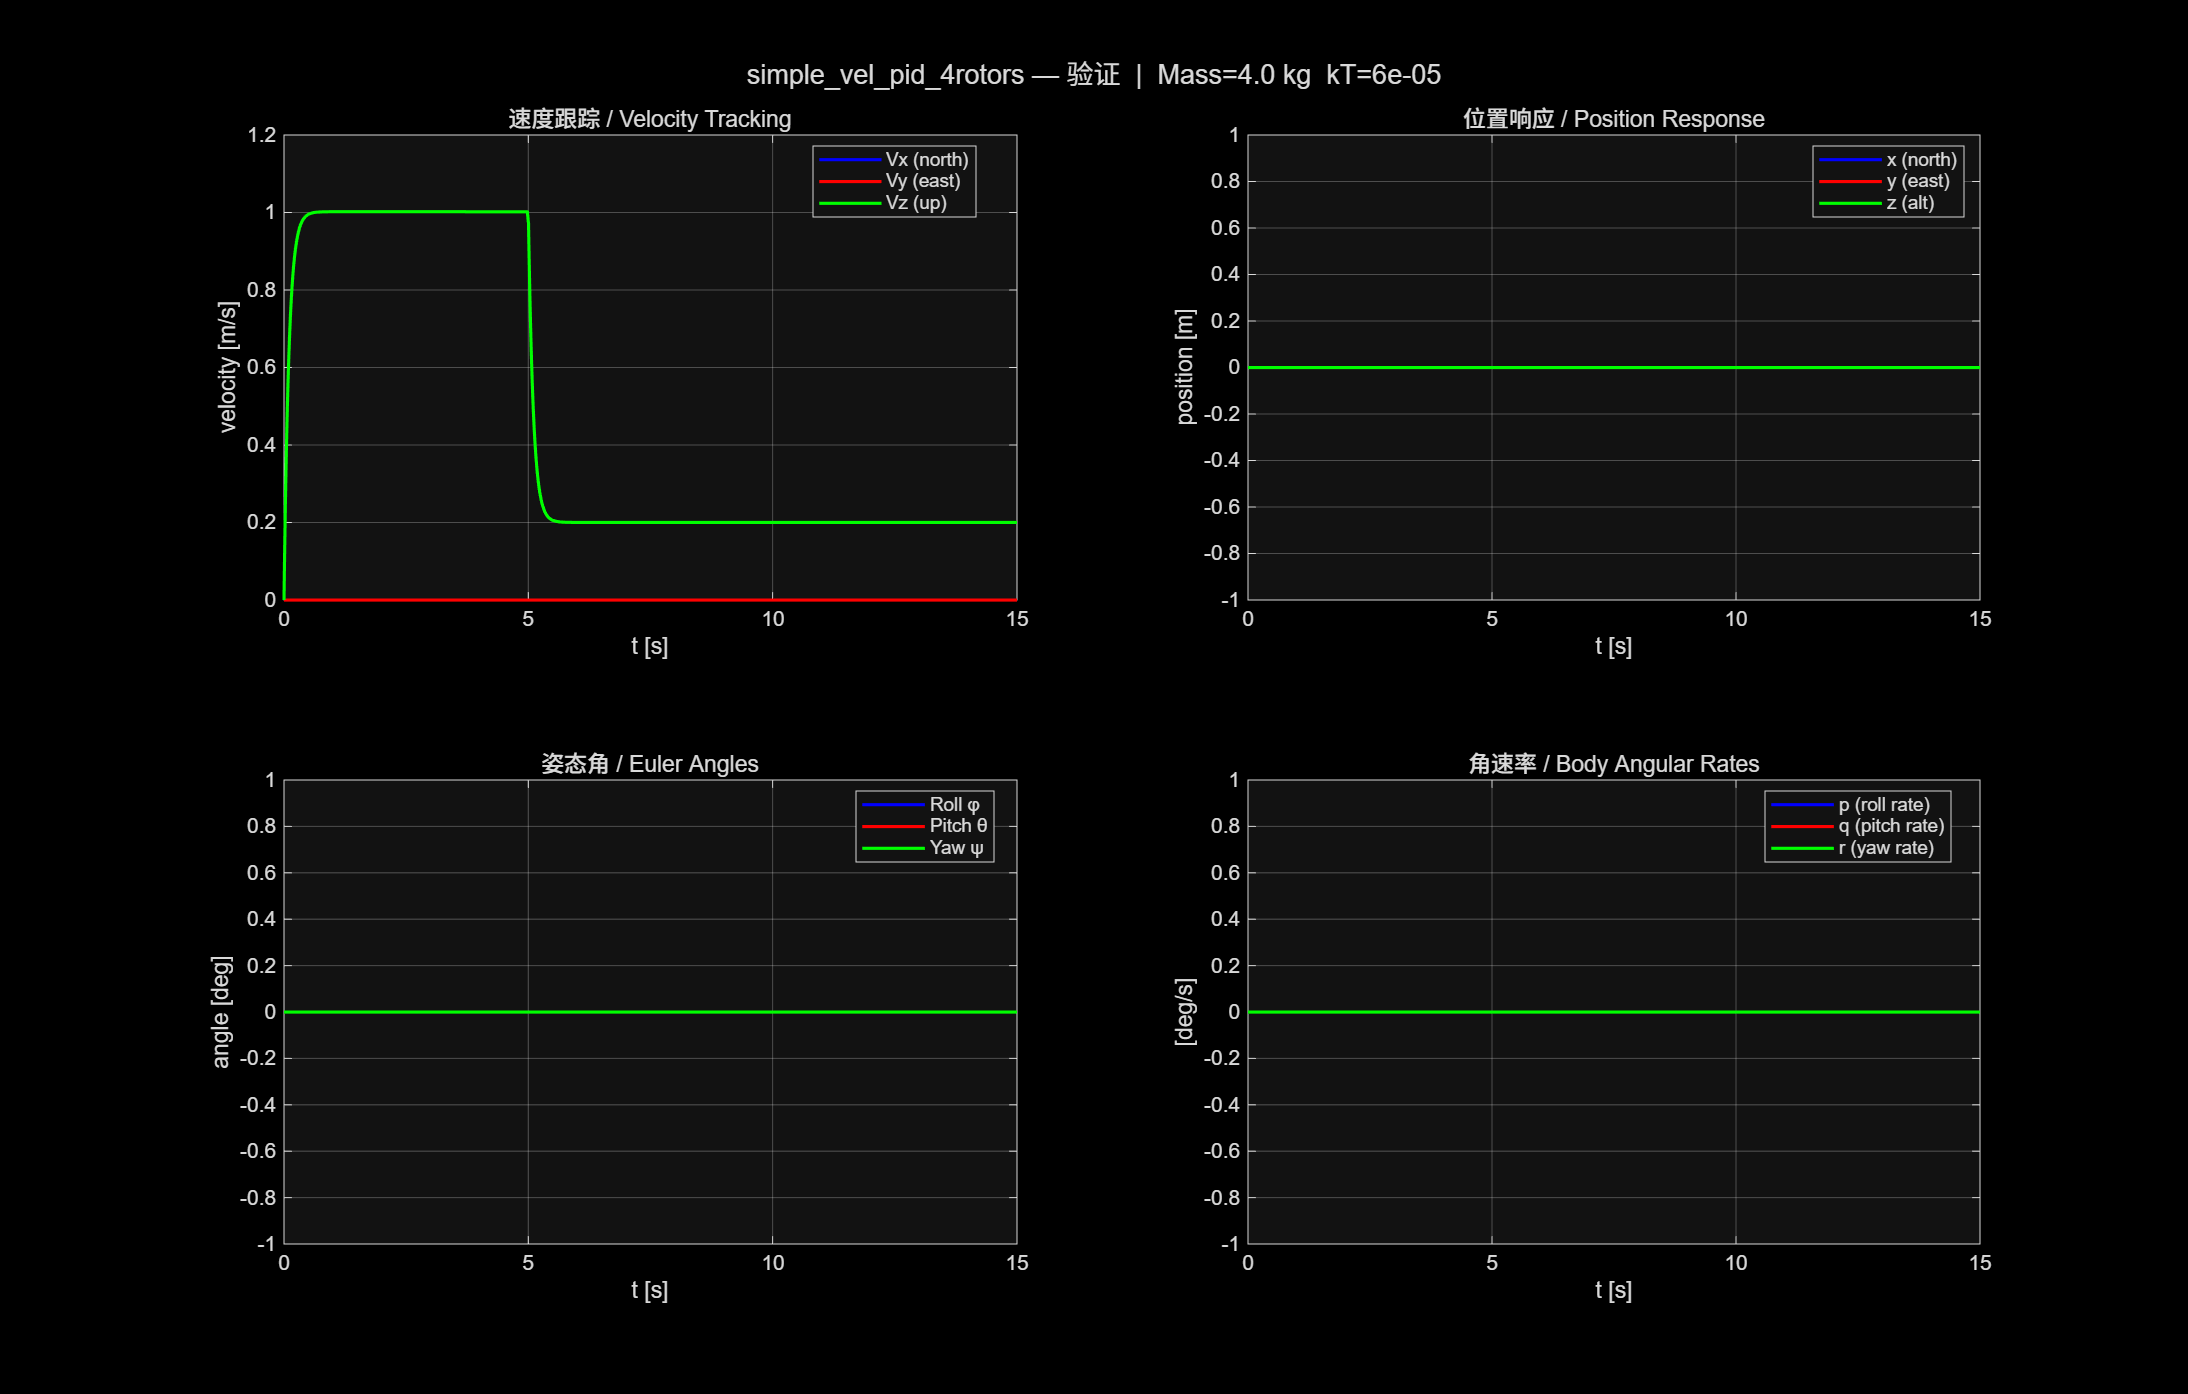
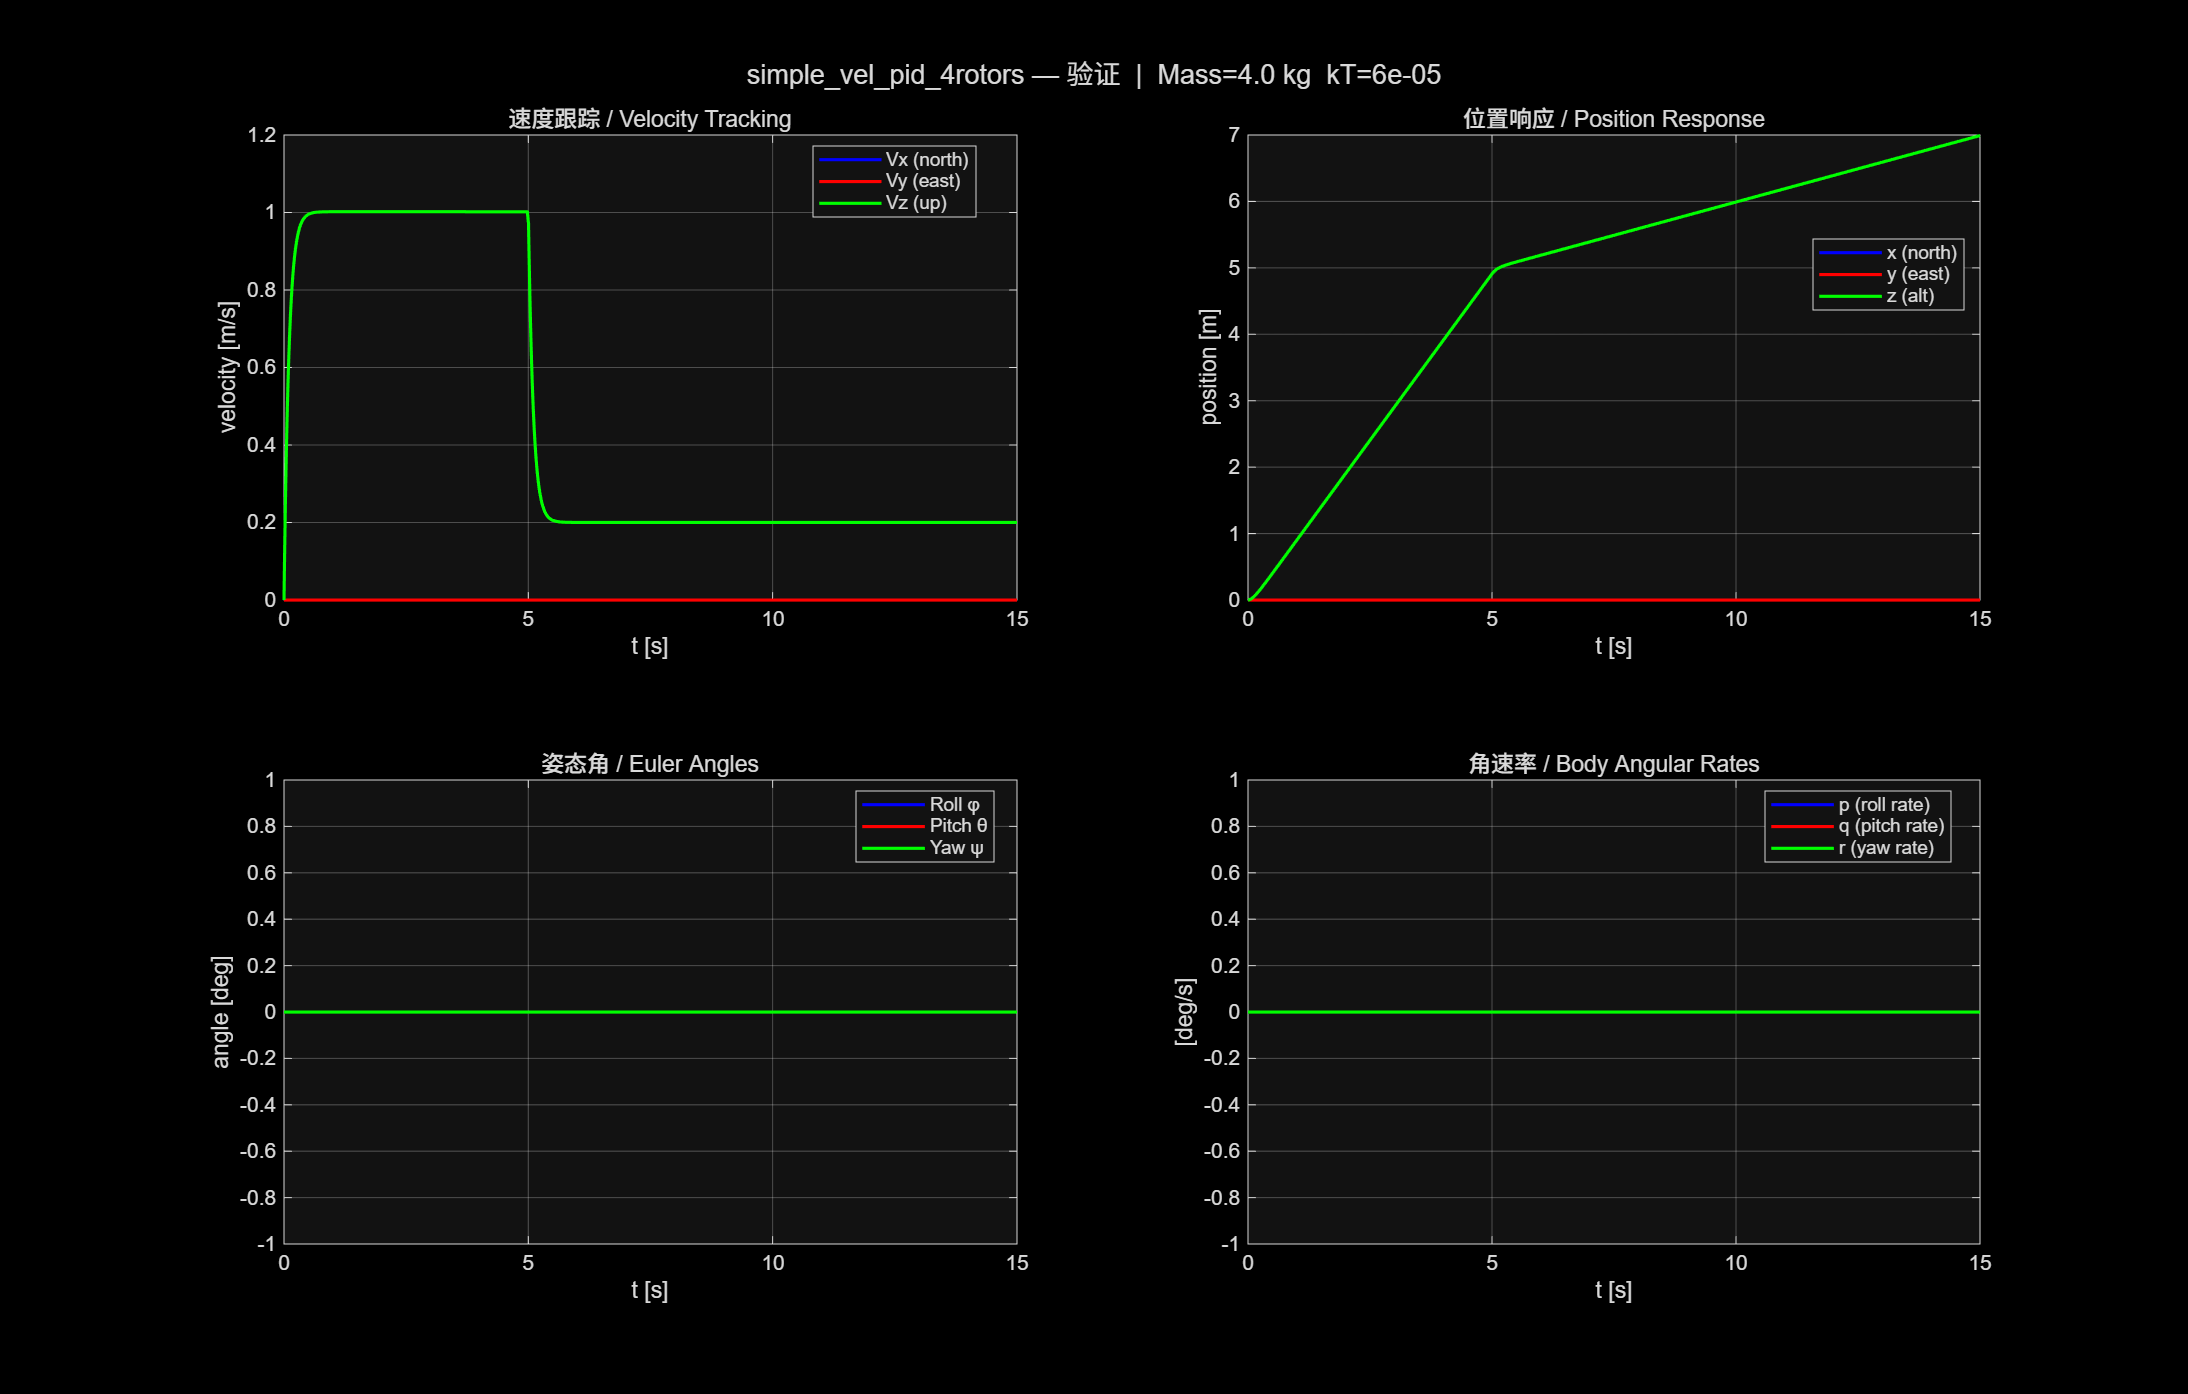
report §5.B: 更新 Simulink 验证图（Xe 信号已启用记录）
- 位置响应子图现已显示高度爬升曲线（0→7 m / 15 s）
- Euler/pqr 全零为物理正确（纯垂直爬升无倾斜）
- 更新实测数据表

diff --git a/report/阶段性报告.md b/report/阶段性报告.md
@@ -413,15 +413,15 @@ Windows: py report/make_figures.py report/data/<csv> [更多csv…] --out report
 > 脚本自动核查 w\_hover ∈ [50, 687] rad/s ✓、机臂对称 ✓、混控矩阵秩 = 4 ✓，
 > 仿真 15 s（ode4, Ts = 4 ms），输出 `pid_verification_plots.png` 和 `pid_baseline_metrics.csv`。
 
-**Simulink 仿真实测（Vz 高度速度通道，logsout 有效）**：
+**Simulink 仿真实测（高度速度阶跃，15 s）**：
 
 | 指标 | 实测值 |
 |---|---|
-| 上升时间（0→90%，Vz 通道） | ~1.0 s |
-| t = 5 s 后稳态速度 | ~0.2 m/s（高度积分趋稳）|
-| 水平通道 Vx / Vy | 未激励（模型指令为零）|
-
-> 注：Euler / pqr / Xe 三组信号因 Simulink 模型未启用 logsout，对应子图显示为零；高度速度 Vz 由 logsout 自动捕获，曲线有效。
+| 上升时间（Vz 0 → 90%） | ~1.0 s |
+| 高度爬升（t = 0→5 s @ 1 m/s） | 0 → ~5 m |
+| 高度爬升（t = 5→15 s @ 0.2 m/s） | ~5 → ~7 m（位置环稳定）|
+| Roll / Pitch / Yaw | ≈ 0°（纯垂直运动，物理正确）|
+| 水平通道 Vx / Vy | 未激励（模型阶跃指令仅含 Vz）|
 
 ![PID验证四联图](figures/pid_verification_plots.png)
 